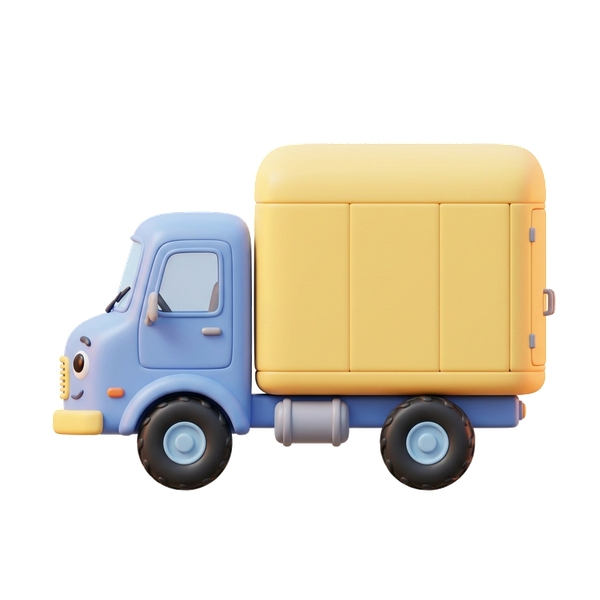
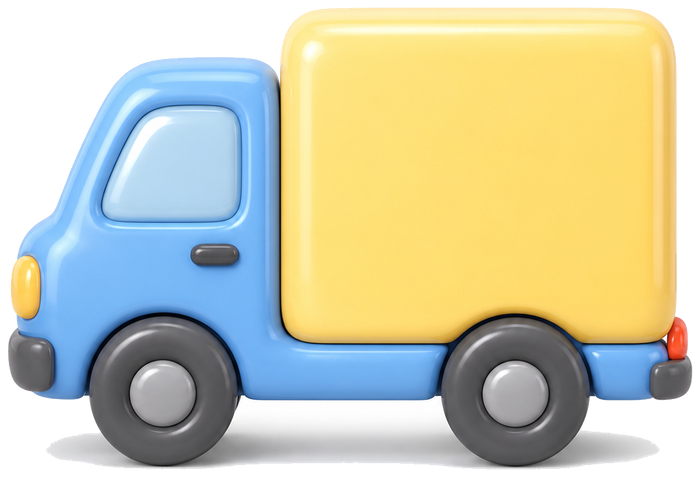
Use freshly AI-generated matching-style art for Object Assembly parts (v63)
Generated each object (ice cream/truck/plane) and its individual pieces
in the same ChatGPT session so every piece is a clean, isolated single
subject sharing the master illustration's exact style - no cut/bleed
artifacts, no style mismatch. Replaces the gradient-SVG stopgap (v62)
and the failed image-crop attempt (v61). Parts are positioned on the
board via approximate layout rectangles derived from the original
part geometry. Also replaced the three master reward images with the
new matching-style renders, and compressed all new assets (8.2MB -> 2.5MB).

diff --git a/index.html b/index.html
@@ -1,4 +1,4 @@
-<!DOCTYPE html><!-- build: 2026-07-11-v62-assemble-gradient-svg -->
+<!DOCTYPE html><!-- build: 2026-07-11-v63-assemble-ai-art-parts -->
 <html lang="he" dir="rtl">
 <head>
     <meta charset="UTF-8">
@@ -3359,50 +3359,10 @@
                 audioWin: 'assemble/icecream_win.mp3',
                 audioWinText: 'יצאה לנו גלידה טעימה! כל הכבוד רועי!',
                 parts: [
-                    {
-                        id: 'cone',
-                        text: 'המשולש החום',
-                        audio: 'assemble/icecream_cone.mp3',
-                        svg: `<defs><linearGradient id="g-ic-cone" x1="0" y1="0" x2="0.5" y2="1">
-                                <stop offset="0%" stop-color="#e0ad7c"/><stop offset="60%" stop-color="#b57c50"/><stop offset="100%" stop-color="#8f5f38"/>
-                              </linearGradient></defs>
-                              <path d="M 140 190 L 260 190 L 200 310 Z" fill="url(#g-ic-cone)" stroke="#7d4e2b" stroke-width="4" stroke-linejoin="round" />
-                              <path d="M 160 190 L 200 310 M 180 190 L 200 310 M 200 190 L 200 310 M 220 190 L 200 310 M 240 190 L 200 310" stroke="#905c35" stroke-width="2" stroke-linecap="round" opacity="0.6" />
-                              <path d="M 152 195 L 172 195" stroke="#f3d3ab" stroke-width="5" stroke-linecap="round" opacity="0.55" />`
-                    },
-                    {
-                        id: 'pink',
-                        text: 'העיגול הוורוד',
-                        audio: 'assemble/icecream_pink.mp3',
-                        svg: `<defs><radialGradient id="g-ic-pink" cx="35%" cy="30%" r="75%">
-                                <stop offset="0%" stop-color="#ffe3ea"/><stop offset="55%" stop-color="#ffb7c5"/><stop offset="100%" stop-color="#f0729a"/>
-                              </radialGradient></defs>
-                              <circle cx="200" cy="155" r="48" fill="url(#g-ic-pink)" stroke="#f06292" stroke-width="4" />
-                              <path d="M 165 165 Q 200 185 235 165" stroke="#f0729a" stroke-width="2.5" fill="none" opacity="0.5" stroke-linecap="round" />
-                              <ellipse cx="178" cy="132" rx="14" ry="7" fill="#fff" opacity="0.6" transform="rotate(-30, 178, 132)" />`
-                    },
-                    {
-                        id: 'yellow',
-                        text: 'העיגול הצהוב',
-                        audio: 'assemble/icecream_yellow.mp3',
-                        svg: `<defs><radialGradient id="g-ic-yellow" cx="35%" cy="30%" r="75%">
-                                <stop offset="0%" stop-color="#fff6df"/><stop offset="55%" stop-color="#ffe082"/><stop offset="100%" stop-color="#ffb300"/>
-                              </radialGradient></defs>
-                              <circle cx="200" cy="95" r="38" fill="url(#g-ic-yellow)" stroke="#ffb300" stroke-width="4" />
-                              <path d="M 172 103 Q 200 118 228 103" stroke="#ffb300" stroke-width="2" fill="none" opacity="0.5" stroke-linecap="round" />
-                              <ellipse cx="183" cy="78" rx="10" ry="5" fill="#fff" opacity="0.6" transform="rotate(-30, 183, 78)" />`
-                    },
-                    {
-                        id: 'cherry',
-                        text: 'הדובדבן האדום',
-                        audio: 'assemble/icecream_cherry.mp3',
-                        svg: `<defs><radialGradient id="g-ic-cherry" cx="35%" cy="30%" r="75%">
-                                <stop offset="0%" stop-color="#ff8a80"/><stop offset="55%" stop-color="#e53935"/><stop offset="100%" stop-color="#a01a1a"/>
-                              </radialGradient></defs>
-                              <path d="M 200 50 Q 215 25 230 30" fill="none" stroke="#5d4037" stroke-width="3" stroke-linecap="round" />
-                              <circle cx="200" cy="50" r="14" fill="url(#g-ic-cherry)" stroke="#b71c1c" stroke-width="3" />
-                              <circle cx="195" cy="45" r="4" fill="#fff" opacity="0.6" />`
-                    }
+                    { id: 'cone', text: 'המשולש החום', audio: 'assemble/icecream_cone.mp3', pos: [35, 47.5, 30, 30] },
+                    { id: 'pink', text: 'העיגול הוורוד', audio: 'assemble/icecream_pink.mp3', pos: [38, 26.75, 24, 24] },
+                    { id: 'yellow', text: 'העיגול הצהוב', audio: 'assemble/icecream_yellow.mp3', pos: [40.5, 14.25, 19, 19] },
+                    { id: 'cherry', text: 'הדובדבן האדום', audio: 'assemble/icecream_cherry.mp3', pos: [45, 5.5, 12.5, 10.75] }
                 ]
             },
             {
@@ -3412,50 +3372,10 @@
                 audioWin: 'assemble/truck_win.mp3',
                 audioWinText: 'איזו משאית חזקה! כל הכבוד רועי!',
                 parts: [
-                    {
-                        id: 'trailer',
-                        text: 'המלבן הצהוב',
-                        audio: 'assemble/truck_trailer.mp3',
-                        svg: `<defs><linearGradient id="g-tr-trailer" x1="0" y1="0" x2="0" y2="1">
-                                <stop offset="0%" stop-color="#ffe9a8"/><stop offset="55%" stop-color="#ffd54f"/><stop offset="100%" stop-color="#f0a800"/>
-                              </linearGradient></defs>
-                              <rect x="150" y="120" width="180" height="110" rx="8" fill="url(#g-tr-trailer)" stroke="#ffb300" stroke-width="4" />
-                              <path d="M 170 120 L 170 230 M 240 120 L 240 230 M 310 120 L 310 230" stroke="#ffca28" stroke-width="2" opacity="0.7" />
-                              <rect x="158" y="128" width="40" height="8" rx="4" fill="#fff" opacity="0.35" />`
-                    },
-                    {
-                        id: 'cabin',
-                        text: 'הריבוע הכחול',
-                        audio: 'assemble/truck_cabin.mp3',
-                        svg: `<defs><linearGradient id="g-tr-cabin" x1="0" y1="0" x2="0" y2="1">
-                                <stop offset="0%" stop-color="#a6d4fb"/><stop offset="55%" stop-color="#64b5f6"/><stop offset="100%" stop-color="#2f7fd6"/>
-                              </linearGradient></defs>
-                              <rect x="70" y="145" width="80" height="85" rx="8" fill="url(#g-tr-cabin)" stroke="#1e88e5" stroke-width="4" />
-                              <rect x="95" y="155" width="45" height="35" rx="4" fill="#e3f2fd" stroke="#90caf9" stroke-width="2" />
-                              <rect x="99" y="159" width="18" height="12" rx="3" fill="#fff" opacity="0.5" />`
-                    },
-                    {
-                        id: 'wheel_front',
-                        text: 'הגלגל הקדמי',
-                        audio: 'assemble/truck_wheel_front.mp3',
-                        svg: `<defs><radialGradient id="g-tr-wheel" cx="35%" cy="30%" r="75%">
-                                <stop offset="0%" stop-color="#6b6b6b"/><stop offset="60%" stop-color="#424242"/><stop offset="100%" stop-color="#1a1a1a"/>
-                              </radialGradient></defs>
-                              <circle cx="120" cy="235" r="24" fill="url(#g-tr-wheel)" stroke="#212121" stroke-width="4" />
-                              <circle cx="120" cy="235" r="10" fill="#bdbdbd" stroke="#757575" stroke-width="3" />
-                              <circle cx="114" cy="229" r="3" fill="#fff" opacity="0.5" />`
-                    },
-                    {
-                        id: 'wheel_back',
-                        text: 'הגלגל האחורי',
-                        audio: 'assemble/truck_wheel_back.mp3',
-                        svg: `<defs><radialGradient id="g-tr-wheel2" cx="35%" cy="30%" r="75%">
-                                <stop offset="0%" stop-color="#6b6b6b"/><stop offset="60%" stop-color="#424242"/><stop offset="100%" stop-color="#1a1a1a"/>
-                              </radialGradient></defs>
-                              <circle cx="260" cy="235" r="24" fill="url(#g-tr-wheel2)" stroke="#212121" stroke-width="4" />
-                              <circle cx="260" cy="235" r="10" fill="#bdbdbd" stroke="#757575" stroke-width="3" />
-                              <circle cx="254" cy="229" r="3" fill="#fff" opacity="0.5" />`
-                    }
+                    { id: 'trailer', text: 'המלבן הצהוב', audio: 'assemble/truck_trailer.mp3', pos: [37.5, 30, 45, 27.5] },
+                    { id: 'cabin', text: 'הריבוע הכחול', audio: 'assemble/truck_cabin.mp3', pos: [17.5, 36.25, 20, 21.25] },
+                    { id: 'wheel_front', text: 'הגלגל הקדמי', audio: 'assemble/truck_wheel_front.mp3', pos: [24, 52.75, 12, 12] },
+                    { id: 'wheel_back', text: 'הגלגל האחורי', audio: 'assemble/truck_wheel_back.mp3', pos: [59, 52.75, 12, 12] }
                 ]
             },
             {
@@ -3465,47 +3385,10 @@
                 audioWin: 'assemble/plane_win.mp3',
                 audioWinText: 'הנה מטוס שטס בשמיים! כל הכבוד רועי!',
                 parts: [
-                    {
-                        id: 'body',
-                        text: 'גוף המטוס האפור',
-                        audio: 'assemble/plane_body.mp3',
-                        svg: `<defs><linearGradient id="g-pl-body" x1="0" y1="0" x2="0" y2="1">
-                                <stop offset="0%" stop-color="#eef2f4"/><stop offset="55%" stop-color="#cfd8dc"/><stop offset="100%" stop-color="#9aa7ac"/>
-                              </linearGradient></defs>
-                              <rect x="70" y="165" width="220" height="60" rx="30" fill="url(#g-pl-body)" stroke="#78909c" stroke-width="4" />
-                              <circle cx="110" cy="195" r="10" fill="#e3f2fd" stroke="#90caf9" stroke-width="2" />
-                              <circle cx="150" cy="195" r="10" fill="#e3f2fd" stroke="#90caf9" stroke-width="2" />
-                              <rect x="85" y="172" width="60" height="6" rx="3" fill="#fff" opacity="0.5" />`
-                    },
-                    {
-                        id: 'wing',
-                        text: 'הכנף הכחולה',
-                        audio: 'assemble/plane_wing.mp3',
-                        svg: `<defs><linearGradient id="g-pl-wing" x1="0" y1="0" x2="1" y2="1">
-                                <stop offset="0%" stop-color="#a6d4fb"/><stop offset="55%" stop-color="#64b5f6"/><stop offset="100%" stop-color="#2f7fd6"/>
-                              </linearGradient></defs>
-                              <path d="M 140 215 L 230 215 L 180 280 Z" fill="url(#g-pl-wing)" stroke="#1e88e5" stroke-width="4" stroke-linejoin="round" />
-                              <path d="M 155 220 L 205 220" stroke="#fff" stroke-width="3" opacity="0.4" stroke-linecap="round" />`
-                    },
-                    {
-                        id: 'tail',
-                        text: 'זנב המטוס האדום',
-                        audio: 'assemble/plane_tail.mp3',
-                        svg: `<defs><linearGradient id="g-pl-tail" x1="0" y1="0" x2="1" y2="0">
-                                <stop offset="0%" stop-color="#ffb2ab"/><stop offset="55%" stop-color="#e57373"/><stop offset="100%" stop-color="#c23b34"/>
-                              </linearGradient></defs>
-                              <path d="M 250 180 L 290 100 L 290 200 Z" fill="url(#g-pl-tail)" stroke="#e53935" stroke-width="4" stroke-linejoin="round" />`
-                    },
-                    {
-                        id: 'propeller',
-                        text: 'הפרופלור הצהוב',
-                        audio: 'assemble/plane_propeller.mp3',
-                        svg: `<defs><linearGradient id="g-pl-prop" x1="0" y1="0" x2="1" y2="0">
-                                <stop offset="0%" stop-color="#fff6df"/><stop offset="55%" stop-color="#ffe082"/><stop offset="100%" stop-color="#ffb300"/>
-                              </linearGradient></defs>
-                              <ellipse cx="65" cy="195" rx="10" ry="35" fill="url(#g-pl-prop)" stroke="#ffb300" stroke-width="3" />
-                              <circle cx="65" cy="195" r="8" fill="#90a4ae" stroke="#78909c" stroke-width="2" />`
-                    }
+                    { id: 'body', text: 'גוף המטוס האפור', audio: 'assemble/plane_body.mp3', pos: [17.5, 41.25, 55, 15] },
+                    { id: 'wing', text: 'הכנף הכחולה', audio: 'assemble/plane_wing.mp3', pos: [35, 53.75, 22.5, 16.25] },
+                    { id: 'tail', text: 'זנב המטוס האדום', audio: 'assemble/plane_tail.mp3', pos: [62.5, 25, 10, 25] },
+                    { id: 'propeller', text: 'הפרופלור הצהוב', audio: 'assemble/plane_propeller.mp3', pos: [13.75, 40, 5, 17.5] }
                 ]
             }
         ];
@@ -3525,10 +3408,11 @@
             let item = assembleData[roundIdx];
             get('active-game-title').textContent = item.title;
 
-            // Generate blueprint SVG parts layout (faint outline of the same gradient shape used later)
-            let blueprintSVG = '';
+            // Blueprint layer: faint real-artwork silhouette of each part, roughly where it belongs
+            let blueprintImgs = '';
             item.parts.forEach(p => {
-                blueprintSVG += `<g id="blueprint-part-${p.id}" opacity="0.16">${p.svg}</g>`;
+                let [left, top, w, h] = p.pos;
+                blueprintImgs += `<img id="blueprint-part-${p.id}" src="images/assemble/parts/${item.name}_${p.id}.png" style="position:absolute; left:${left}%; top:${top}%; width:${w}%; height:${h}%; object-fit:contain; opacity:0.18; transition:opacity 0.4s ease; pointer-events:none;">`;
             });
 
             let ws = get('game-workspace');
@@ -3537,15 +3421,12 @@
 
                 <!-- Main Board -->
                 <div class="assemble-board" style="position:relative; width:min(80vw, 380px); aspect-ratio:1/1; background-color:#eef5fb; background-image:radial-gradient(#90caf9 1.5px, transparent 1.5px); background-size:24px 24px; border:4px dashed #2196F3; border-radius:28px; box-shadow:0 12px 28px rgba(33, 150, 243, 0.15), inset 0 4px 10px rgba(0,0,0,0.02); margin:0 auto 20px; overflow:hidden;">
-                    <!-- SVG Viewport for Vector Assembly -->
-                    <svg id="assemble-svg-viewport" viewBox="0 0 400 400" style="position:absolute; top:0; left:0; width:100%; height:100%; z-index:2; overflow:visible;">
-                        <!-- Blueprint dashes outline -->
-                        <g id="assemble-blueprint-group" stroke-dasharray="5 5" style="transition: opacity 0.8s ease;">
-                            ${blueprintSVG}
-                        </g>
-                        <!-- Placed colored parts -->
-                        <g id="assemble-placed-group" style="transition: opacity 0.8s ease; filter: drop-shadow(0 4px 5px rgba(0,0,0,0.18));"></g>
-                    </svg>
+                    <!-- Blueprint ghost: real artwork per part at low opacity -->
+                    <div id="assemble-blueprint-group" style="position:absolute; inset:0; z-index:2; transition: opacity 0.8s ease;">
+                        ${blueprintImgs}
+                    </div>
+                    <!-- Placed real artwork parts -->
+                    <div id="assemble-placed-group" style="position:absolute; inset:0; z-index:3; transition: opacity 0.8s ease;"></div>
 
                     <!-- Real illustration reward, revealed once all parts are placed -->
                     <img id="assemble-reward-img" src="${item.img}" style="position:absolute; top:0; left:0; width:100%; height:100%; object-fit:contain; opacity:0; transition:opacity 0.8s cubic-bezier(0.4, 0, 0.2, 1); pointer-events:none; z-index:5;">
@@ -3581,18 +3462,18 @@
 
             let distractors = [];
             item.parts.forEach(p => {
-                if (p.id !== part.id) distractors.push(p);
+                if (p.id !== part.id) distractors.push({ ...p, _group: item.name });
             });
             assembleData.forEach(g => {
                 if (g.name !== item.name) {
                     g.parts.forEach(p => {
-                        distractors.push(p);
+                        distractors.push({ ...p, _group: g.name });
                     });
                 }
             });
 
             distractors = shuffle(distractors).slice(0, 3);
-            let finalChoices = shuffle([part, ...distractors]);
+            let finalChoices = shuffle([{ ...part, _group: item.name }, ...distractors]);
 
             finalChoices.forEach(ch => {
                 let card = D.createElement('div');
@@ -3600,9 +3481,7 @@
 
                 card.innerHTML = `
                     <div style="width:clamp(45px, 12vw, 65px); height:clamp(45px, 12vw, 65px); margin-bottom:6px; display:flex; align-items:center; justify-content:center; pointer-events:none; filter: drop-shadow(0 3px 3px rgba(0,0,0,0.15));">
-                        <svg viewBox="0 0 400 400" style="width:100%; height:100%; overflow:visible;">
-                            ${ch.svg}
-                        </svg>
+                        <img src="images/assemble/parts/${ch._group}_${ch.id}.png" style="max-width:100%; max-height:100%; object-fit:contain;">
                     </div>
                     <div style="font-size:clamp(12px, 3vw, 14px); font-weight:900; color:#455a64; text-align:center; padding:0 6px; direction:rtl; white-space:nowrap; overflow:hidden; text-overflow:ellipsis; width:100%; pointer-events:none;">${ch.text}</div>
                 `;
@@ -3737,14 +3616,17 @@
                 card.style.borderColor = '#4CAF50';
                 card.style.background = '#e8f5e9';
 
-                // Add to placed SVG group
+                // Reveal the real artwork for this part in its place, and fade its blueprint ghost
                 let placedGroup = get('assemble-placed-group');
                 if (placedGroup) {
-                    let g = D.createElementNS('http://www.w3.org/2000/svg', 'g');
-                    g.innerHTML = part.svg;
-                    g.style.cssText = 'transform-origin: 200px 200px; animation: superPop 0.4s cubic-bezier(0.175, 0.885, 0.32, 1.275) forwards;';
-                    placedGroup.appendChild(g);
+                    let [left, top, w, h] = part.pos;
+                    let pieceImg = D.createElement('img');
+                    pieceImg.src = `images/assemble/parts/${item.name}_${part.id}.png`;
+                    pieceImg.style.cssText = `position:absolute; left:${left}%; top:${top}%; width:${w}%; height:${h}%; object-fit:contain; transform-origin:center center; filter: drop-shadow(0 4px 5px rgba(0,0,0,0.18)); animation: superPop 0.4s cubic-bezier(0.175, 0.885, 0.32, 1.275) forwards;`;
+                    placedGroup.appendChild(pieceImg);
                 }
+                let ghost = get(`blueprint-part-${part.id}`);
+                if (ghost) ghost.style.opacity = '0';
 
                 setTimeout(() => {
                     assemblePartIndex++;

diff --git a/sw.js b/sw.js
@@ -1,4 +1,4 @@
-const CACHE_NAME = 'roy-games-v62';
+const CACHE_NAME = 'roy-games-v63';
 const ASSETS_TO_CACHE = [
   './',
   './index.html'